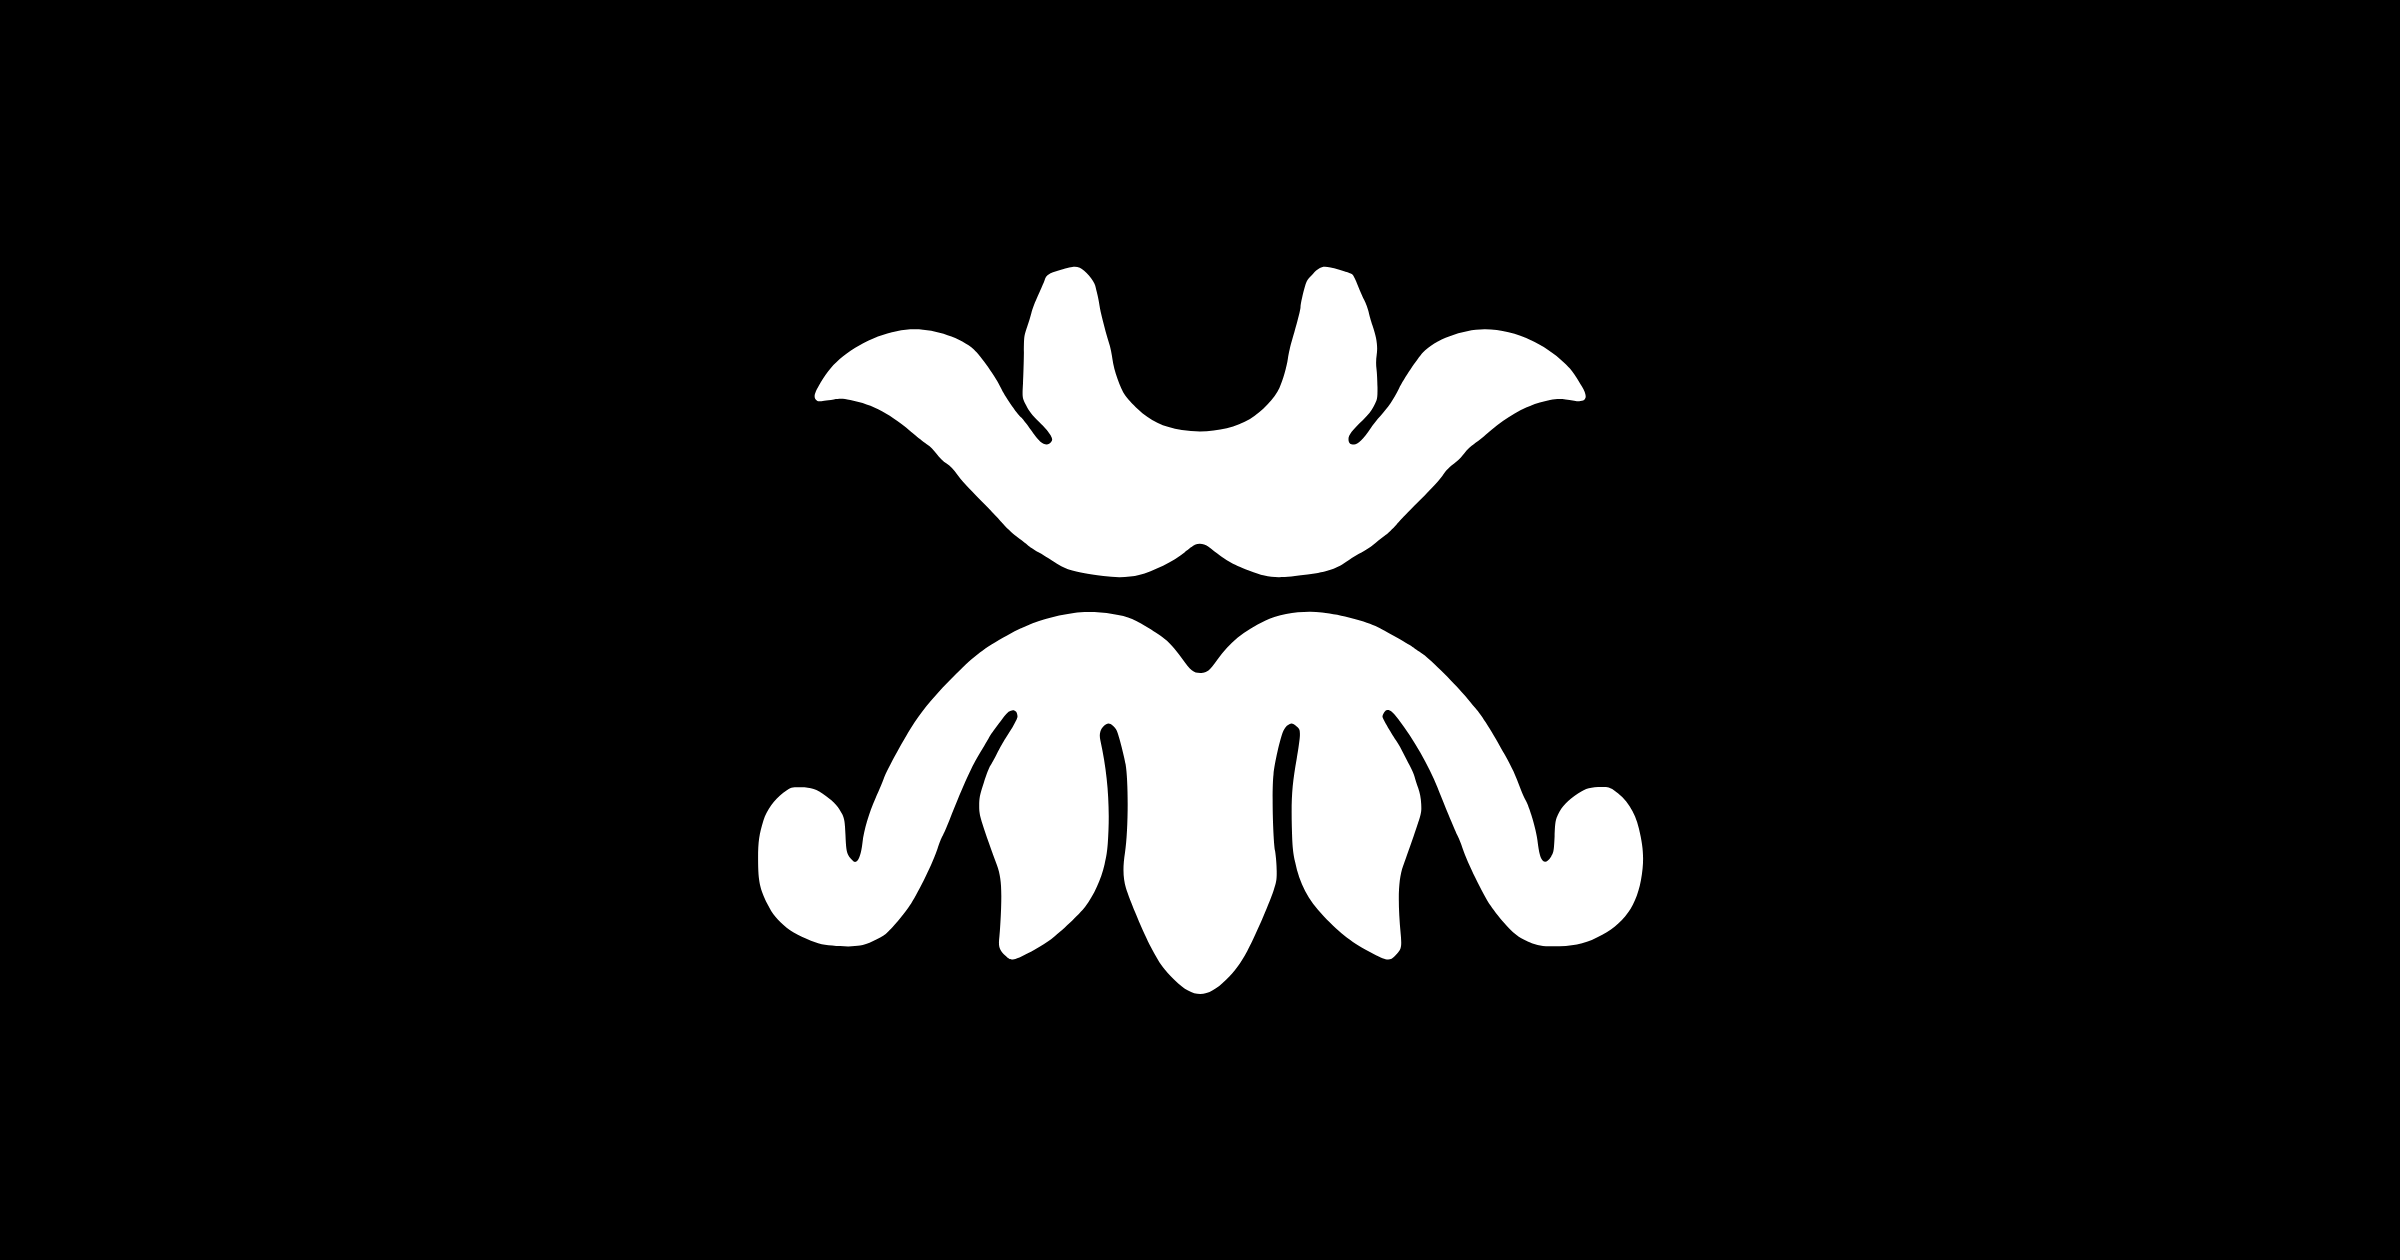
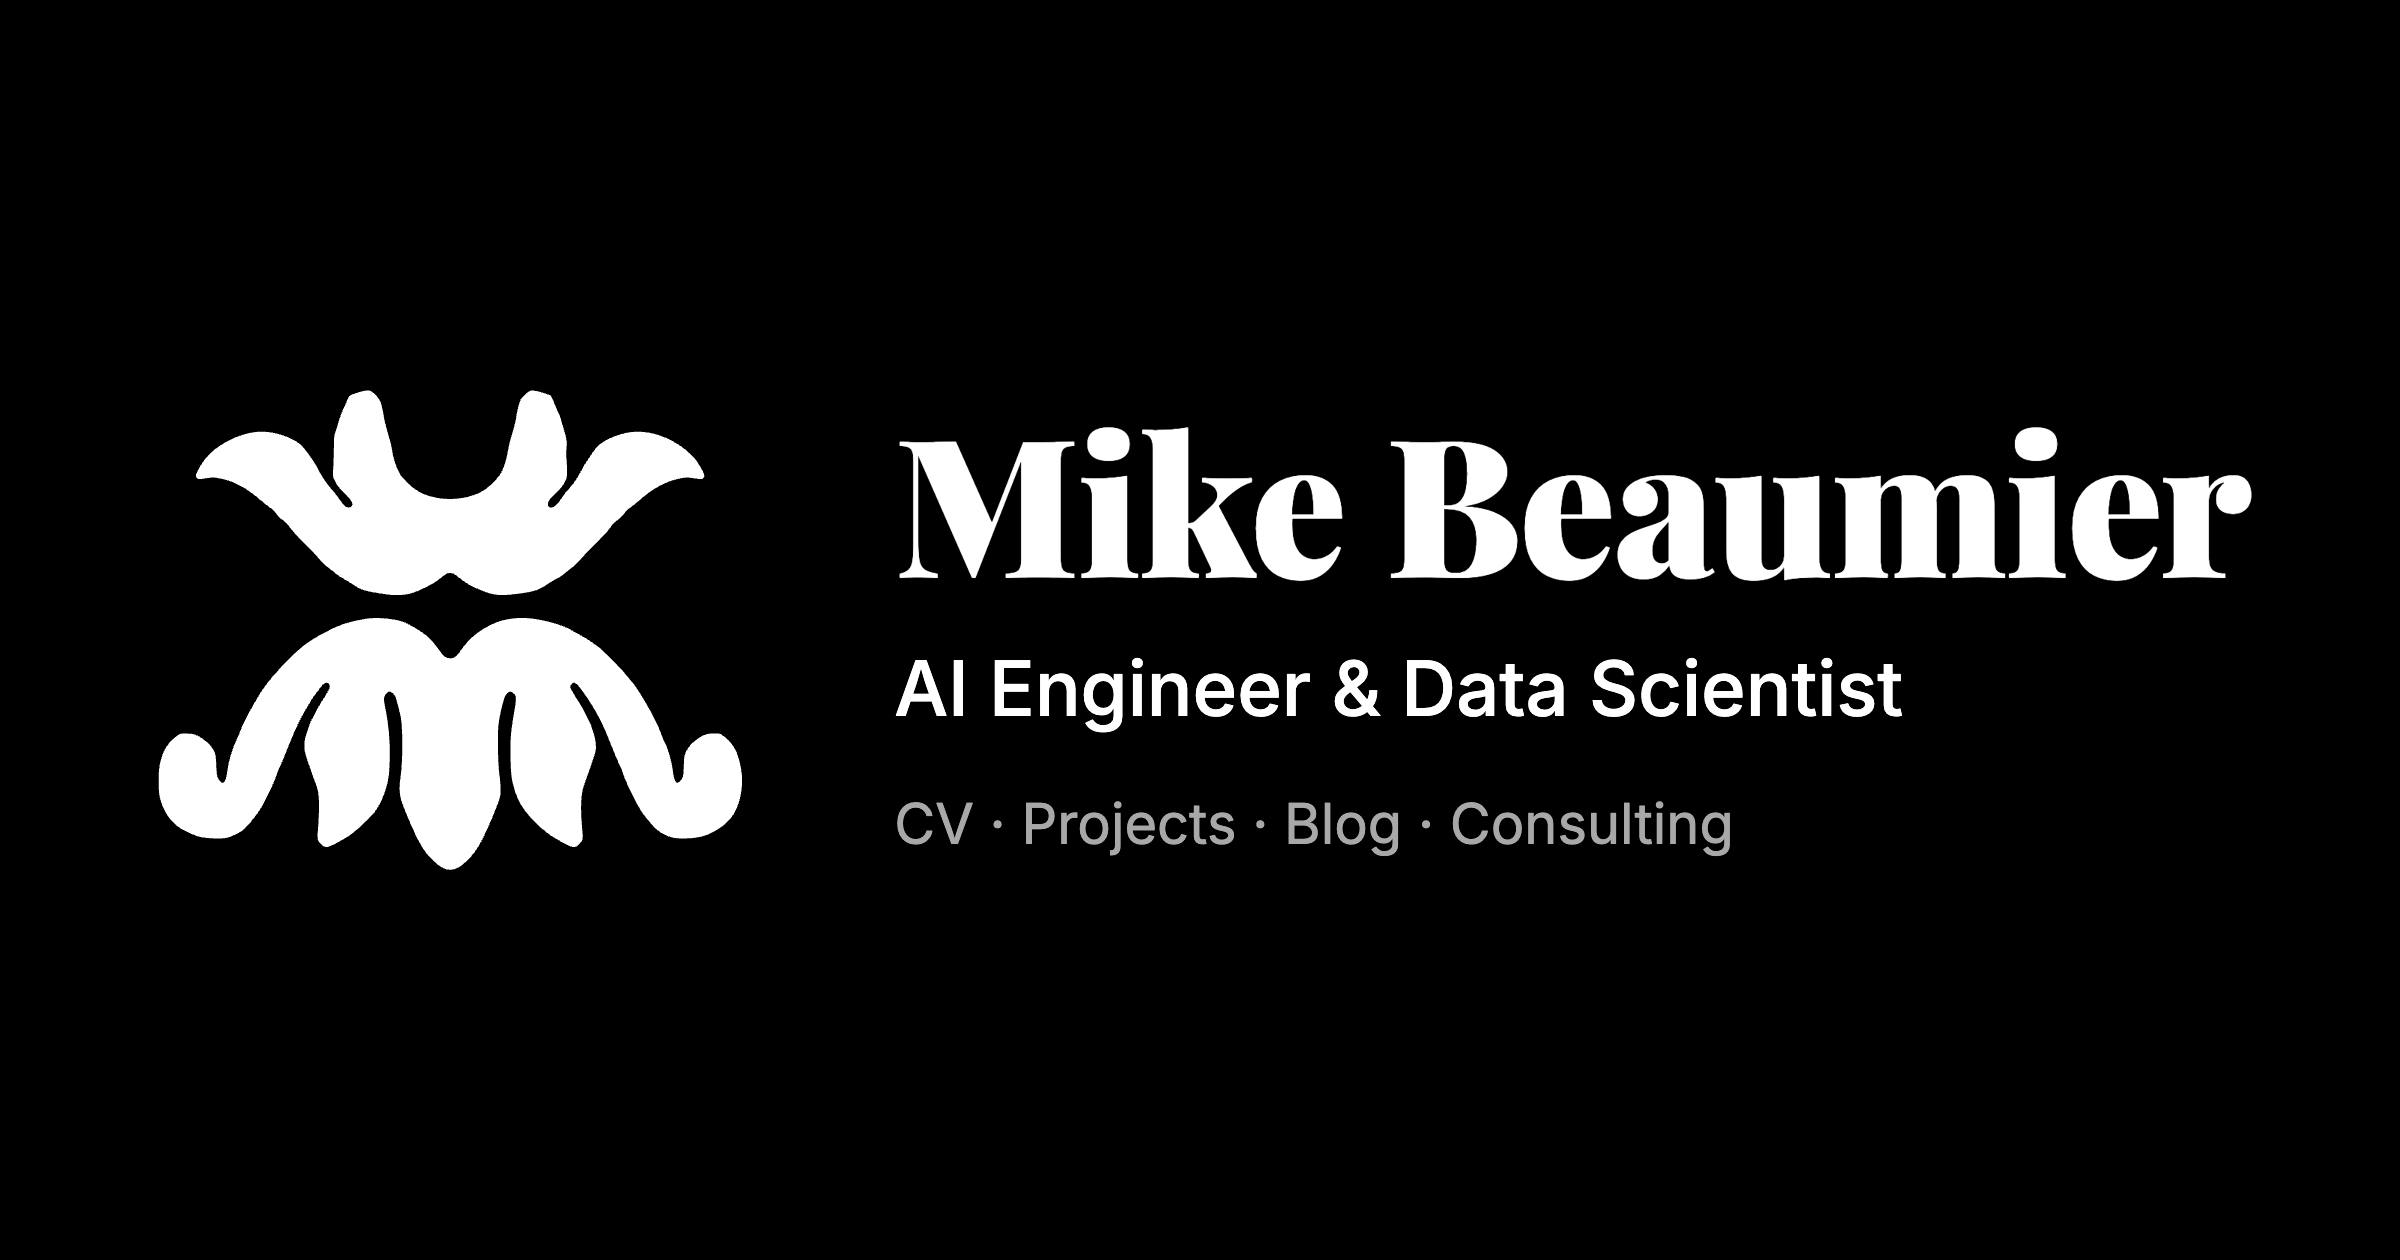
Share card: inlay beside name, role and site sections

Changed region(s): [[0.0625, 0.2167, 0.9375, 0.8048]]

diff --git a/docs/og/og.html b/docs/og/og.html
@@ -1,7 +1,20 @@
-<svg xmlns="http://www.w3.org/2000/svg" width="1200" height="630" viewBox="0 0 2400 1260">
-<!-- Share card: the favicon's inlay (public/favicon.svg), white on black like the favicon. See README.md -->
-<rect width="2400" height="1260" fill="#000"/>
-<g transform="translate(570 0) translate(175.5 254.5) translate(0 751) scale(0.1 -0.1)" fill="#fff">
+<!DOCTYPE html>
+<!-- Share card source. public/og.png is this page rendered at 1200×630, 2x. See README.md -->
+<html><head><meta charset="utf-8">
+<link href="https://fonts.googleapis.com/css2?family=Playfair+Display:wght@900&family=Inter:wght@400;500&display=block" rel="stylesheet">
+<style>
+  html, body { margin: 0; }
+  body { width: 1200px; height: 630px; background: #000; color: #fff; display: flex;
+    align-items: center; justify-content: center; gap: 72px; font-family: Inter, sans-serif; }
+  svg { width: 300px; height: auto; flex: none; }
+  h1 { font-family: 'Playfair Display', serif; font-weight: 900; font-size: 96px; line-height: 1;
+    margin: 0 0 24px; letter-spacing: -0.01em; }
+  .role { font-size: 38px; font-weight: 500; margin: 0 0 28px; }
+  .links { font-size: 28px; color: #a8a8a8; margin: 0; }
+</style></head>
+<body>
+  <svg viewBox="175 254 910 752" aria-hidden="true">
+    <g transform="translate(175.5 254.5) translate(0 751) scale(0.1 -0.1)" fill="#fff">
 <path d="M3147 7355 c-119 -36 -137 -47 -156 -102 -7 -21 -37 -90 -66 -153
 -29 -63 -58 -140 -65 -170 -7 -30 -26 -95 -44 -145 -30 -86 -31 -97 -32 -255
 -1 -91 -5 -229 -9 -308 -8 -143 -8 -143 31 -219 30 -60 59 -97 131 -167 52
@@ -68,5 +81,11 @@
 -564 -80 -223 -107 -357 -216 -483 -393 -79 -111 -102 -130 -161 -131 -76 -2
 -101 17 -190 142 -45 63 -111 141 -147 174 -66 61 -251 178 -354 223 -130 57
 -405 86 -582 61z"/>
-</g>
-</svg>
+    </g>
+  </svg>
+  <div>
+    <h1>Mike Beaumier</h1>
+    <p class="role">AI Engineer &amp; Data Scientist</p>
+    <p class="links">CV · Projects · Blog · Consulting</p>
+  </div>
+</body></html>

diff --git a/docs/og/README.md b/docs/og/README.md
@@ -1,16 +1,17 @@
 # Share card
 
 `public/og.png` is the image link previews show (LinkedIn, Slack, iMessage, X) for pages
-without their own `image`. It is the favicon's inlay (`public/favicon.svg`) centred in white on black,
-like the favicon itself, kept bold and sparse because LinkedIn often shows it as a ~160px thumbnail.
+without their own `image`: the favicon's inlay (`public/favicon.svg`) beside "Mike Beaumier",
+"AI Engineer & Data Scientist" and the site's sections, white on black like the favicon. Keep it
+bold: LinkedIn often shows it as a ~160px thumbnail.
 
-`og.svg` is the source, 2400×1260 (1.91:1, rendered at 2x for sharpness). To re-render:
+`og.html` is the source, laid out at 1200×630 (1.91:1) and rendered at 2x, so 2400×1260. It
+loads the site fonts from Google Fonts. To re-render, from the repo root:
 
 ```bash
-CH="/Applications/Google Chrome.app/Contents/MacOS/Google Chrome"
-printf '<body style="margin:0"><img src="og.svg" width="1200" height="630" style="display:block">' > /tmp/og.html
-cp docs/og/og.svg /tmp/ && "$CH" --headless --hide-scrollbars --force-device-scale-factor=2 \
-  --window-size=1200,630 --screenshot="$PWD/public/og.png" file:///tmp/og.html
+"/Applications/Google Chrome.app/Contents/MacOS/Google Chrome" --headless --hide-scrollbars \
+  --force-device-scale-factor=2 --window-size=1200,630 --virtual-time-budget=5000 \
+  --screenshot="$PWD/public/og.png" "file://$PWD/docs/og/og.html"
 ```
 
 If the size changes, update the default in `src/layouts/Base.astro`. LinkedIn caches each card
